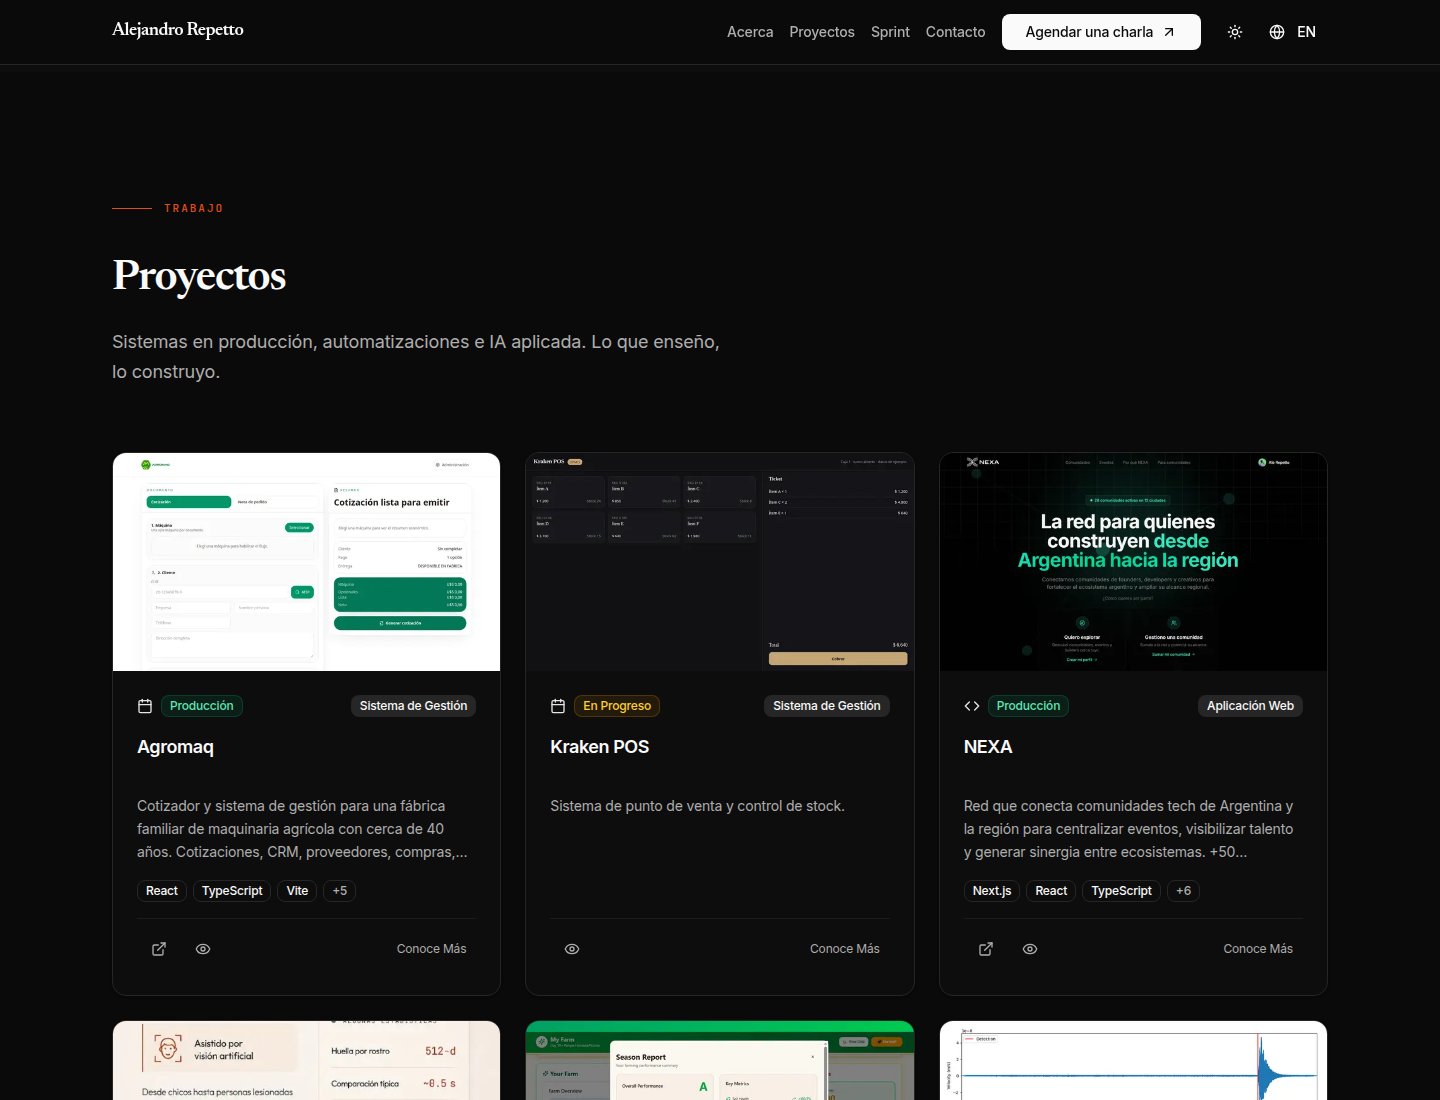
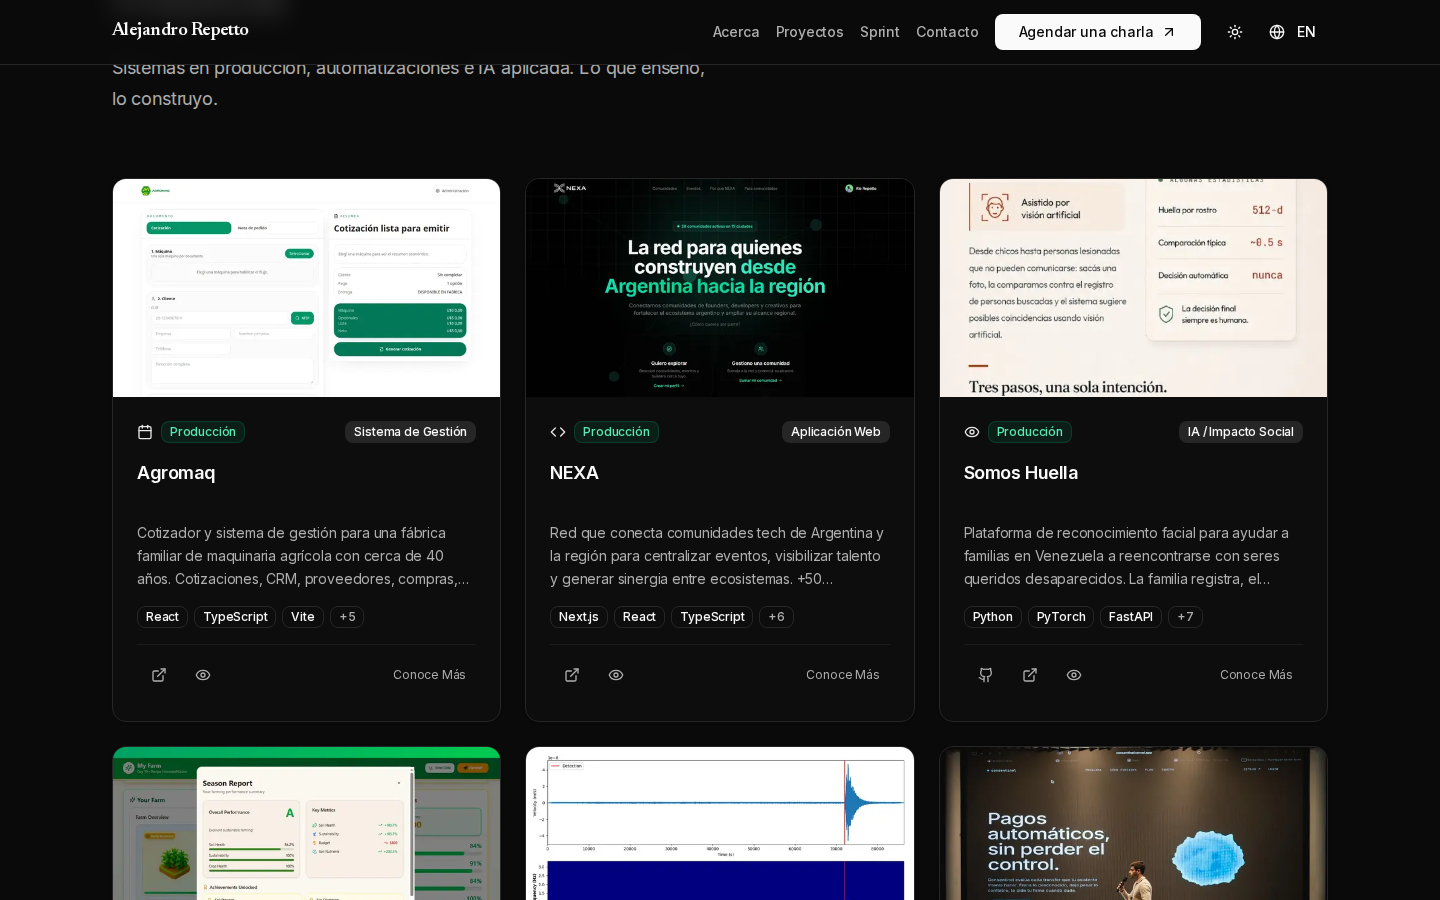
fix: sacar Kraken POS del portfolio
Regla de Alejandro: Kraken POS no va en cards, rutas, copy, screenshots
ni tests. Agromaq se mantiene primero en la grilla. No volver a agregarlo.

diff --git a/__tests__/data/projects.test.ts b/__tests__/data/projects.test.ts
@@ -1,17 +1,28 @@
 import projectsData from "@/content/projects.json"
+import sitemap from "@/app/sitemap"
 
 describe("projects data", () => {
   const projects = projectsData.projects
 
-  it("includes Agromaq and Kraken POS", () => {
+  it("includes Agromaq and does not list Kraken POS", () => {
     const ids = projects.map((p) => p.id)
     expect(ids).toContain("agromaq")
-    expect(ids).toContain("kraken-pos")
+    expect(ids).not.toContain("kraken-pos")
   })
 
-  it("places Agromaq and Kraken POS first, at the same visual rank as the rest", () => {
+  it("places Agromaq first, at the same visual rank as the rest", () => {
     expect(projects[0].id).toBe("agromaq")
-    expect(projects[1].id).toBe("kraken-pos")
+  })
+
+  it("never re-adds Kraken POS in ids, titles, copy, images or routes", () => {
+    const blob = JSON.stringify(projectsData).toLowerCase()
+    expect(blob).not.toContain("kraken")
+    expect(blob).not.toContain("kraken-pos")
+    expect(blob).not.toContain("/projects/kraken")
+
+    const urls = sitemap().map((entry) => entry.url.toLowerCase())
+    expect(urls.some((url) => url.includes("kraken"))).toBe(false)
+    expect(urls.some((url) => url.includes("/projects/agromaq"))).toBe(true)
   })
 
   it("every project has a unique id", () => {
@@ -31,13 +42,11 @@ describe("projects data", () => {
     }
   })
 
-  it("Agromaq and Kraken POS copy has no em dashes", () => {
-    for (const id of ["agromaq", "kraken-pos"]) {
-      const project = projects.find((p) => p.id === id)!
-      const blob = JSON.stringify(project.locales)
-      expect(blob).not.toContain("—")
-      expect(blob).not.toContain("–")
-    }
+  it("Agromaq copy has no em dashes", () => {
+    const project = projects.find((p) => p.id === "agromaq")!
+    const blob = JSON.stringify(project.locales)
+    expect(blob).not.toContain("—")
+    expect(blob).not.toContain("–")
   })
 
   it("Agromaq has a live demo and DEMO screenshots", () => {
@@ -49,15 +58,5 @@ describe("projects data", () => {
       "/projects/agromaq-3.png",
     ])
     expect(agromaq.githubUrl).toBeNull()
-  })
-
-  it("Kraken POS stays generic without invented clients or a fake demo", () => {
-    const kraken = projects.find((p) => p.id === "kraken-pos")!
-    expect(kraken.githubUrl).toBeNull()
-    expect(kraken.demoUrl).toBeNull()
-    expect(kraken.images).toEqual(["/projects/kraken-1.png"])
-    expect(kraken.techStack).toEqual([])
-    expect(JSON.stringify(kraken.locales).toLowerCase()).not.toContain("testimonio")
-    expect(JSON.stringify(kraken.locales).toLowerCase()).not.toContain("testimonial")
   })
 })
